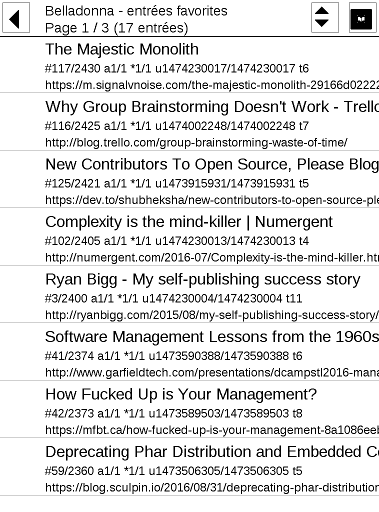
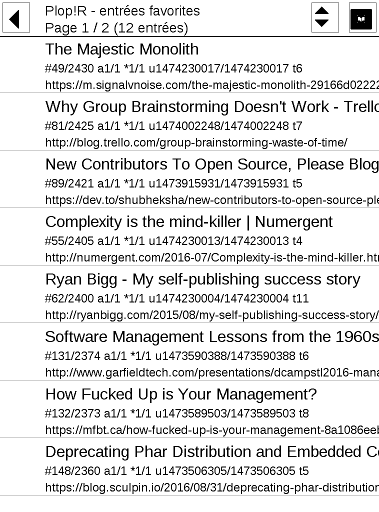
site: remade all screenshots

diff --git a/docs/_posts/2016-09-19-install-v0.1.0.md b/docs/_posts/2016-09-19-install-v0.1.0.md
@@ -131,7 +131,9 @@ The *menu* button also allows you to navigate between the lists of unread / arch
 
 ![The archived entries](/images/v0.1.0/screenshot-04-archived.png) ![The starred entries](/images/v0.1.0/screenshot-05-starred.png)
 
-To read an entry, touch it; and the ereader's internal reading application will start (it takes a few seconds).
+To read an entry, touch it; and the ereader's internal reading application will start (it takes a few seconds):
+
+![Reading an entry](/images/v0.1.0/screenshot-12-lecture.png)
 
 When you are done reading an entry, close the reading app by touching the upper-left corner of the screen, and you'll get this dialog, which asks you if you want to change the status information of the entry you just read:
 
